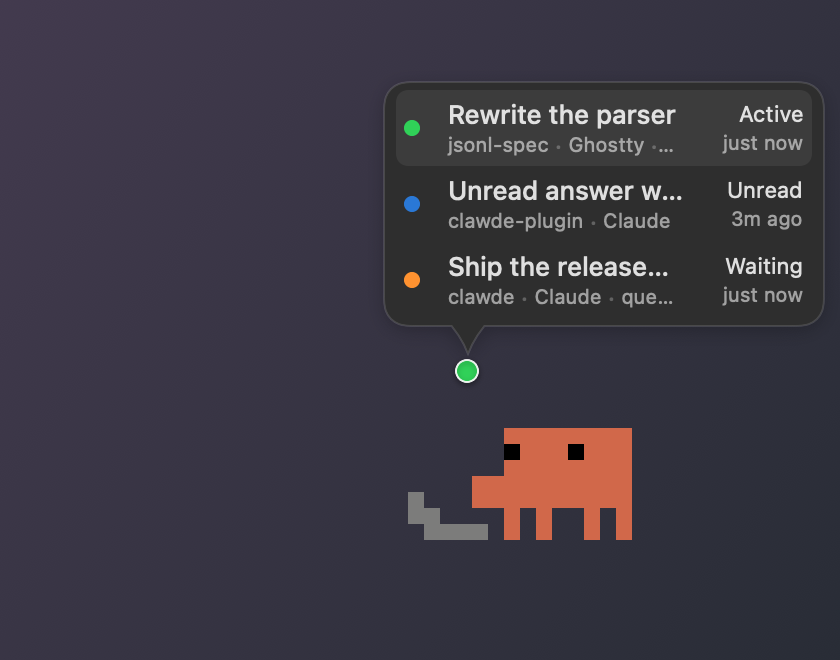
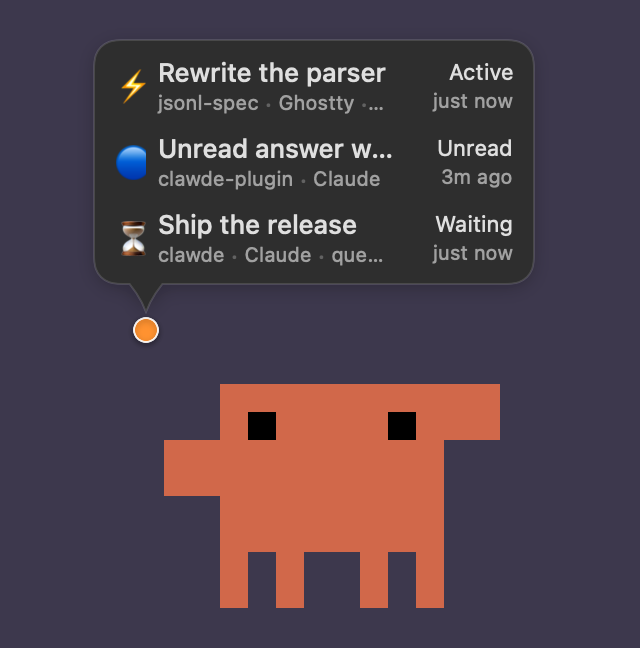
docs: show the menu bar list, and a hero that agrees with the code
The hero was composed by hand: it gave the pet an active mood and a green
badge while the session at the top of its own bubble was waiting. Both images
are now rendered from the real views, with the moods, the badge and the row
order coming from PetPresenter rather than from me.

The menu bar list had no picture at all. ImageRenderer never draws a
ScrollView's contents, which is why the earlier attempt came out empty; an
NSHostingView in an offscreen window draws it properly.

Changed region(s): [[0.125, 0.0617, 1.0, 0.9568]]

diff --git a/README.md b/README.md
@@ -39,6 +39,8 @@ Off by default. Turn it on in Settings, or with the paw button at the top of the
 
 ## In the menu bar
 
+![The menu bar list, with three sessions and the day's usage](assets/menu-bar.png)
+
 Every live session, the one that most wants you at the top: what it is doing, the name it goes by,
 its folder and host app, and how long ago it last moved. Click a row and Clawde brings that session
 forward — the right tab in iTerm2 or Ghostty, the right window in VS Code, Xcode or a JetBrains
